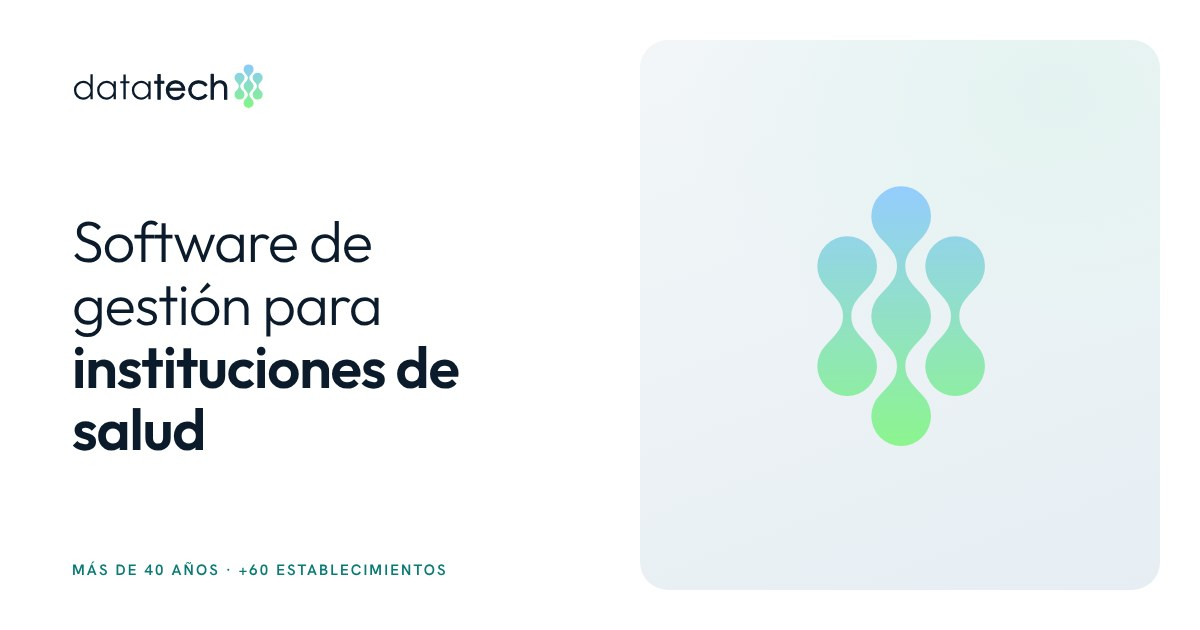
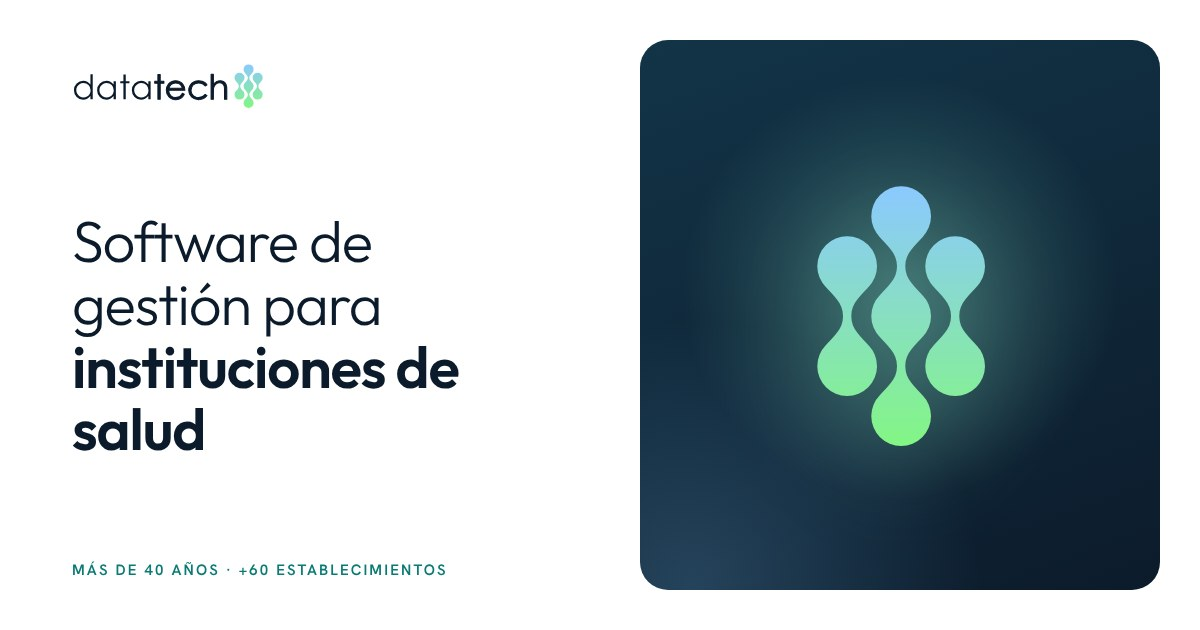
Portada: panel del isotipo en azul oscuro (también en la imagen para compartir)
Claude-Session: https://claude.ai/code/session_01MhgJo3tv4sggUwiCN3wVAu

diff --git a/public/trabaje-con-nosotros/index.html b/public/trabaje-con-nosotros/index.html
@@ -23,7 +23,7 @@
 <link rel="apple-touch-icon" href="/apple-touch-icon.png">
 <link rel="preload" href="/assets/fonts/Outfit-300-600.woff2" as="font" type="font/woff2" crossorigin>
 <link rel="preload" href="/assets/fonts/HankenGrotesk-400-700.woff2" as="font" type="font/woff2" crossorigin>
-<link rel="stylesheet" href="/assets/site.css?v=c6510de2">
+<link rel="stylesheet" href="/assets/site.css?v=86110df9">
 <script src="/assets/site.js?v=4eb7b49e" defer></script>
 <script type="application/ld+json">{"@context":"https://schema.org","@graph":[{"@type":"Corporation","@id":"https://www.datatech.com.ar/#organizacion","name":"Datatech S.A.","legalName":"Datatech S.A.","alternateName":"Datatech","url":"https://www.datatech.com.ar/","logo":{"@type":"ImageObject","url":"https://www.datatech.com.ar/apple-touch-icon.png","width":180,"height":180},"image":"https://www.datatech.com.ar/og.jpg","description":"Empresa argentina de software de gestión para instituciones de salud: hospitales, sanatorios, laboratorios de análisis clínicos, centros de diagnóstico y empresas de medicina prepaga. Con más de 40 años en la industria de la salud.","disambiguatingDescription":"Datatech S.A. es una empresa argentina con sede en Buenos Aires que desarrolla software de gestión para instituciones de salud. No está relacionada con otras empresas llamadas Datatech de otros países o rubros.","telephone":"+54 11 4374-1002","contactPoint":{"@type":"ContactPoint","contactType":"customer service","telephone":"+54 11 4374-1002","areaServed":"AR","availableLanguage":"es"},"address":{"@type":"PostalAddress","streetAddress":"Av. Córdoba 1184, 5º piso","postalCode":"C1055AAO","addressLocality":"Ciudad Autónoma de Buenos Aires","addressRegion":"CABA","addressCountry":"AR"},"areaServed":{"@type":"Country","name":"Argentina"},"knowsAbout":["Software de gestión hospitalaria","Sistemas para sanatorios","Sistemas para laboratorios de análisis clínicos","Sistemas para centros de diagnóstico","Sistemas para medicina prepaga","Facturación de prestaciones médico-asistenciales","Liquidación de honorarios médicos","Historia clínica","Autorizaciones en línea"],"hasCertification":{"@type":"Certification","name":"ISO 9001:2015","certificationIdentification":"9000-2878","issuedBy":{"@type":"Organization","name":"IRAM, Instituto Argentino de Normalización y Certificación","url":"https://www.iram.org.ar"}},"sameAs":["https://www.facebook.com/sistemasdatatech","https://www.linkedin.com/company/datatechsa"]},{"@type":"WebSite","@id":"https://www.datatech.com.ar/#sitio","url":"https://www.datatech.com.ar/","name":"Datatech","inLanguage":"es-AR","publisher":{"@id":"https://www.datatech.com.ar/#organizacion"}},{"@type":"BreadcrumbList","@id":"https://www.datatech.com.ar/trabaje-con-nosotros/#migas","itemListElement":[{"@type":"ListItem","position":1,"name":"Inicio","item":"https://www.datatech.com.ar/"},{"@type":"ListItem","position":2,"name":"Trabaje con nosotros","item":"https://www.datatech.com.ar/trabaje-con-nosotros/"}]},{"@type":"WebPage","@id":"https://www.datatech.com.ar/trabaje-con-nosotros/#pagina","url":"https://www.datatech.com.ar/trabaje-con-nosotros/","name":"Trabaje con nosotros · Datatech","description":"Deje sus datos y su CV en Datatech para futuras búsquedas en el desarrollo de software de gestión para sanatorios, clínicas, laboratorios y prepagas.","inLanguage":"es-AR","isPartOf":{"@id":"https://www.datatech.com.ar/#sitio"},"about":{"@id":"https://www.datatech.com.ar/#organizacion"},"dateModified":"2026-11-19","breadcrumb":{"@id":"https://www.datatech.com.ar/trabaje-con-nosotros/#migas"}}]}</script>
 </head>

diff --git a/public/index.html b/public/index.html
@@ -23,7 +23,7 @@
 <link rel="apple-touch-icon" href="/apple-touch-icon.png">
 <link rel="preload" href="/assets/fonts/Outfit-300-600.woff2" as="font" type="font/woff2" crossorigin>
 <link rel="preload" href="/assets/fonts/HankenGrotesk-400-700.woff2" as="font" type="font/woff2" crossorigin>
-<link rel="stylesheet" href="/assets/site.css?v=c6510de2">
+<link rel="stylesheet" href="/assets/site.css?v=86110df9">
 <script src="/assets/site.js?v=4eb7b49e" defer></script>
 <script type="application/ld+json">{"@context":"https://schema.org","@graph":[{"@type":"Corporation","@id":"https://www.datatech.com.ar/#organizacion","name":"Datatech S.A.","legalName":"Datatech S.A.","alternateName":"Datatech","url":"https://www.datatech.com.ar/","logo":{"@type":"ImageObject","url":"https://www.datatech.com.ar/apple-touch-icon.png","width":180,"height":180},"image":"https://www.datatech.com.ar/og.jpg","description":"Empresa argentina de software de gestión para instituciones de salud: hospitales, sanatorios, laboratorios de análisis clínicos, centros de diagnóstico y empresas de medicina prepaga. Con más de 40 años en la industria de la salud.","disambiguatingDescription":"Datatech S.A. es una empresa argentina con sede en Buenos Aires que desarrolla software de gestión para instituciones de salud. No está relacionada con otras empresas llamadas Datatech de otros países o rubros.","telephone":"+54 11 4374-1002","contactPoint":{"@type":"ContactPoint","contactType":"customer service","telephone":"+54 11 4374-1002","areaServed":"AR","availableLanguage":"es"},"address":{"@type":"PostalAddress","streetAddress":"Av. Córdoba 1184, 5º piso","postalCode":"C1055AAO","addressLocality":"Ciudad Autónoma de Buenos Aires","addressRegion":"CABA","addressCountry":"AR"},"areaServed":{"@type":"Country","name":"Argentina"},"knowsAbout":["Software de gestión hospitalaria","Sistemas para sanatorios","Sistemas para laboratorios de análisis clínicos","Sistemas para centros de diagnóstico","Sistemas para medicina prepaga","Facturación de prestaciones médico-asistenciales","Liquidación de honorarios médicos","Historia clínica","Autorizaciones en línea"],"hasCertification":{"@type":"Certification","name":"ISO 9001:2015","certificationIdentification":"9000-2878","issuedBy":{"@type":"Organization","name":"IRAM, Instituto Argentino de Normalización y Certificación","url":"https://www.iram.org.ar"}},"sameAs":["https://www.facebook.com/sistemasdatatech","https://www.linkedin.com/company/datatechsa"]},{"@type":"WebSite","@id":"https://www.datatech.com.ar/#sitio","url":"https://www.datatech.com.ar/","name":"Datatech","inLanguage":"es-AR","publisher":{"@id":"https://www.datatech.com.ar/#organizacion"}},{"@type":"WebPage","@id":"https://www.datatech.com.ar/#pagina","url":"https://www.datatech.com.ar/","name":"Software de gestión para instituciones de salud · Datatech","description":"Sistema de gestión para hospitales, sanatorios, laboratorios, centros de diagnóstico y prepagas. Receta electrónica por e-mail o WhatsApp. Más de 40 años en la industria de la salud.","inLanguage":"es-AR","isPartOf":{"@id":"https://www.datatech.com.ar/#sitio"},"about":{"@id":"https://www.datatech.com.ar/#organizacion"},"dateModified":"2026-11-19"}]}</script>
 </head>

diff --git a/public/assets/site.css b/public/assets/site.css
@@ -601,8 +601,8 @@ span.nav-client:hover { text-decoration: none; }
 
 /* Hero brand panel (replaces stock photo) */
 .hero-art { position: relative; display: grid; place-items: center; width: 100%; aspect-ratio: 1 / 1.06; border-radius: var(--r-lg); overflow: hidden;
-  background: radial-gradient(70% 60% at 62% 38%, rgba(136,223,193,.35), transparent 70%), linear-gradient(160deg, #F3F7F9, #E4EEF2); }
-.hero-media .hero-art img { width: 30%; height: auto; aspect-ratio: auto; object-fit: contain; border-radius: 0; background: none; transform: translate(12%, -14%); filter: drop-shadow(0 18px 40px rgba(20,60,80,.12)); }
+  background: radial-gradient(60% 55% at 62% 36%, rgba(136,223,193,.30), transparent 70%), radial-gradient(80% 70% at 10% 100%, rgba(120,190,240,.22), transparent 70%), linear-gradient(160deg, #123447, var(--ink)); }
+.hero-media .hero-art img { width: 30%; height: auto; aspect-ratio: auto; object-fit: contain; border-radius: 0; background: none; transform: translate(12%, -14%); filter: drop-shadow(0 18px 50px rgba(136,223,193,.35)); }
 @media (max-width: 900px) { .hero-art { aspect-ratio: 4 / 3; } .hero-media .hero-art img { width: 22%; transform: translate(0, -18%); } }
 .lead.lead-sm { font-size: 16px; margin-top: 12px; }
 @media (max-width: 900px) { .hero-art { aspect-ratio: 4 / 3; } }

diff --git a/public/404.html b/public/404.html
@@ -23,7 +23,7 @@
 <link rel="apple-touch-icon" href="/apple-touch-icon.png">
 <link rel="preload" href="/assets/fonts/Outfit-300-600.woff2" as="font" type="font/woff2" crossorigin>
 <link rel="preload" href="/assets/fonts/HankenGrotesk-400-700.woff2" as="font" type="font/woff2" crossorigin>
-<link rel="stylesheet" href="/assets/site.css?v=c6510de2">
+<link rel="stylesheet" href="/assets/site.css?v=86110df9">
 <script src="/assets/site.js?v=4eb7b49e" defer></script>
 </head>
 <body>
